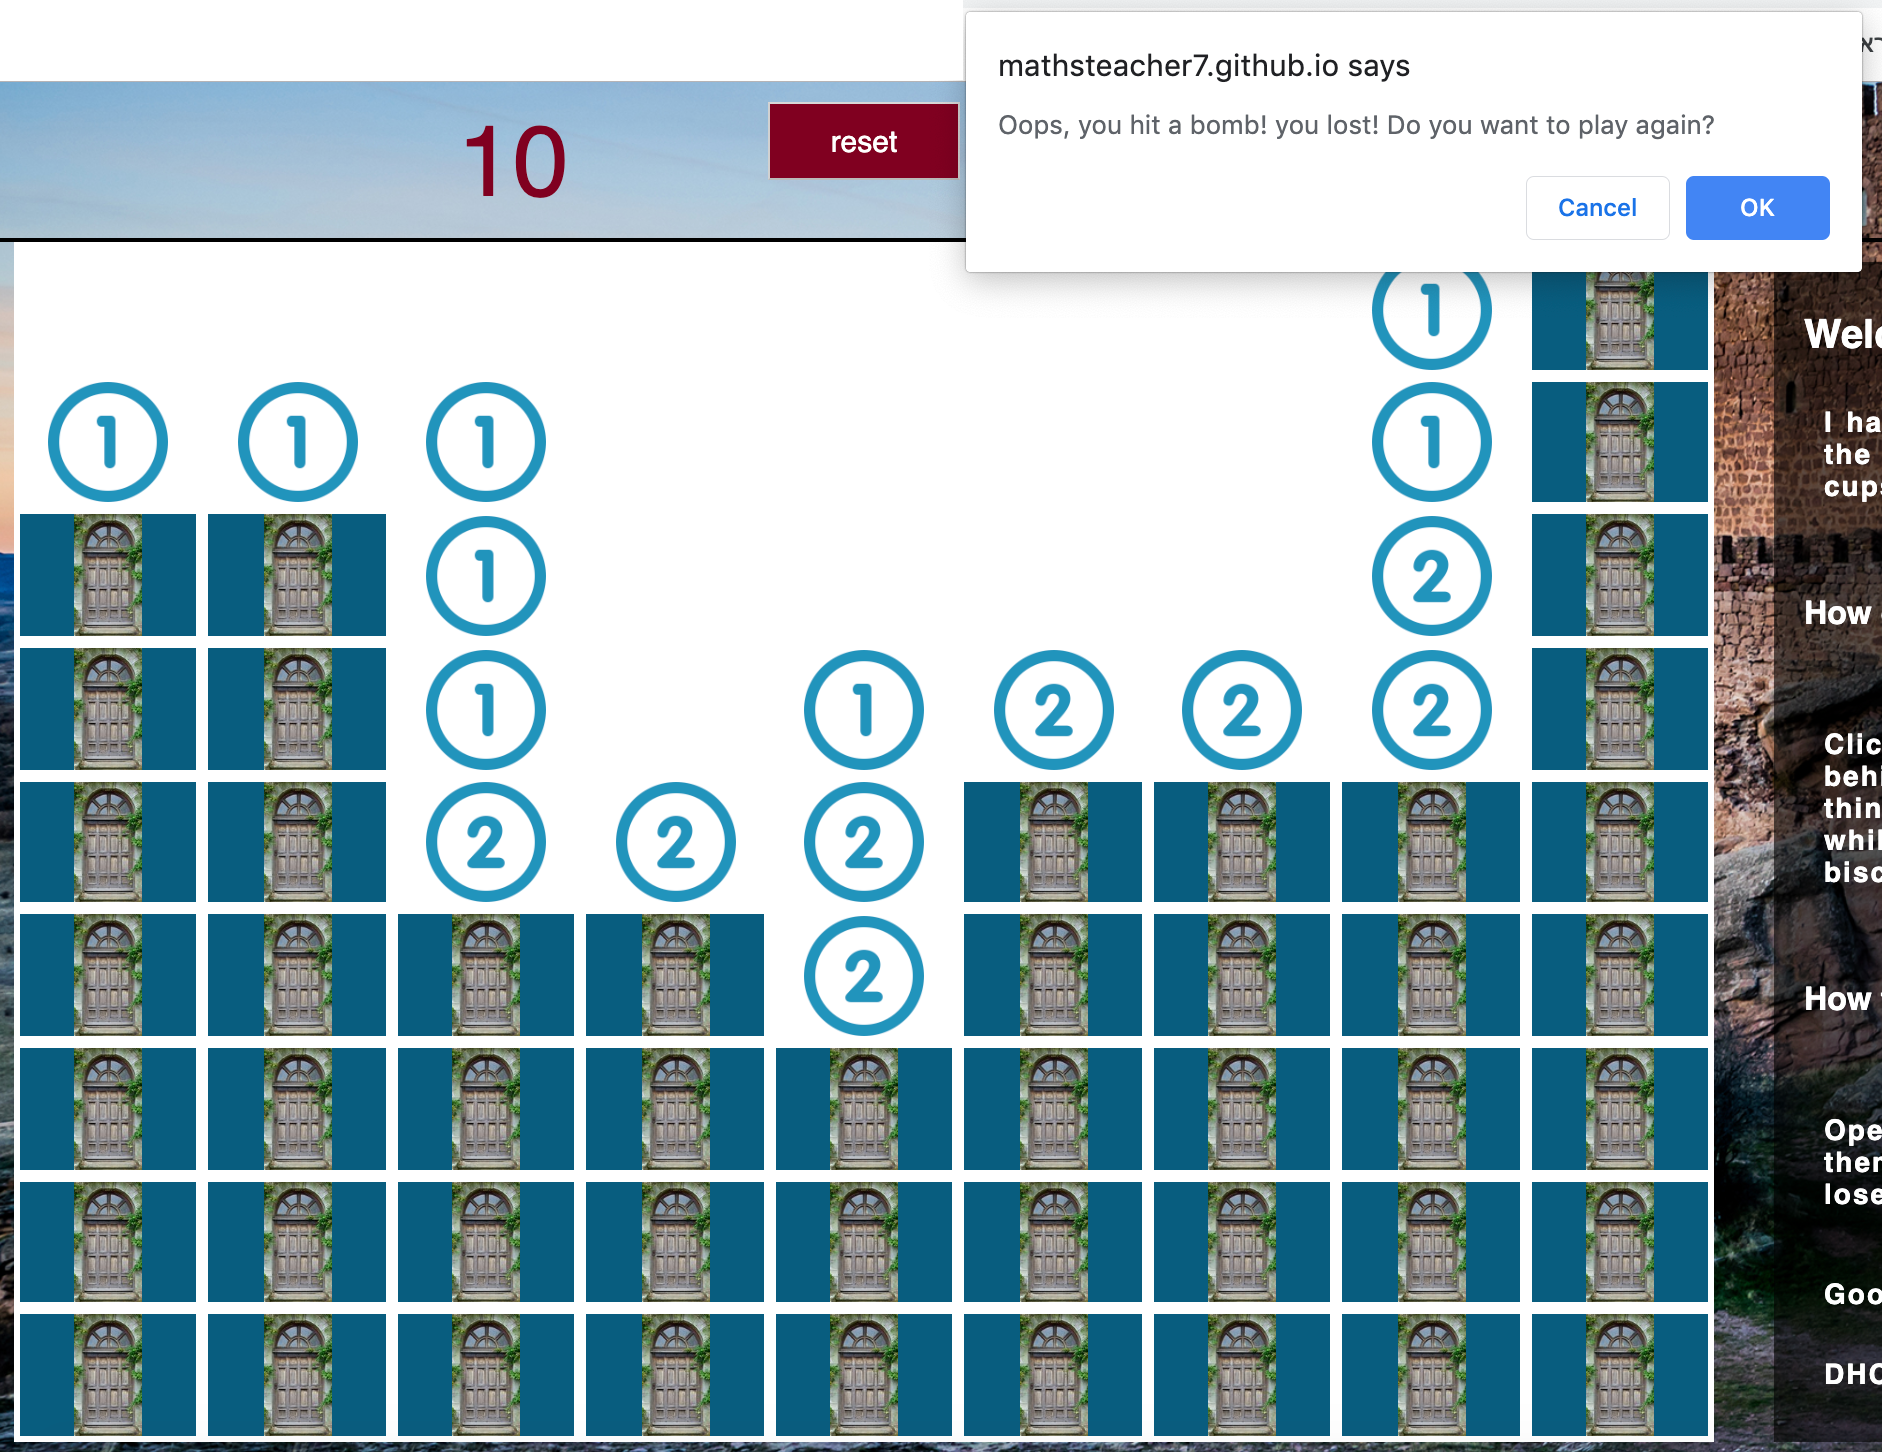
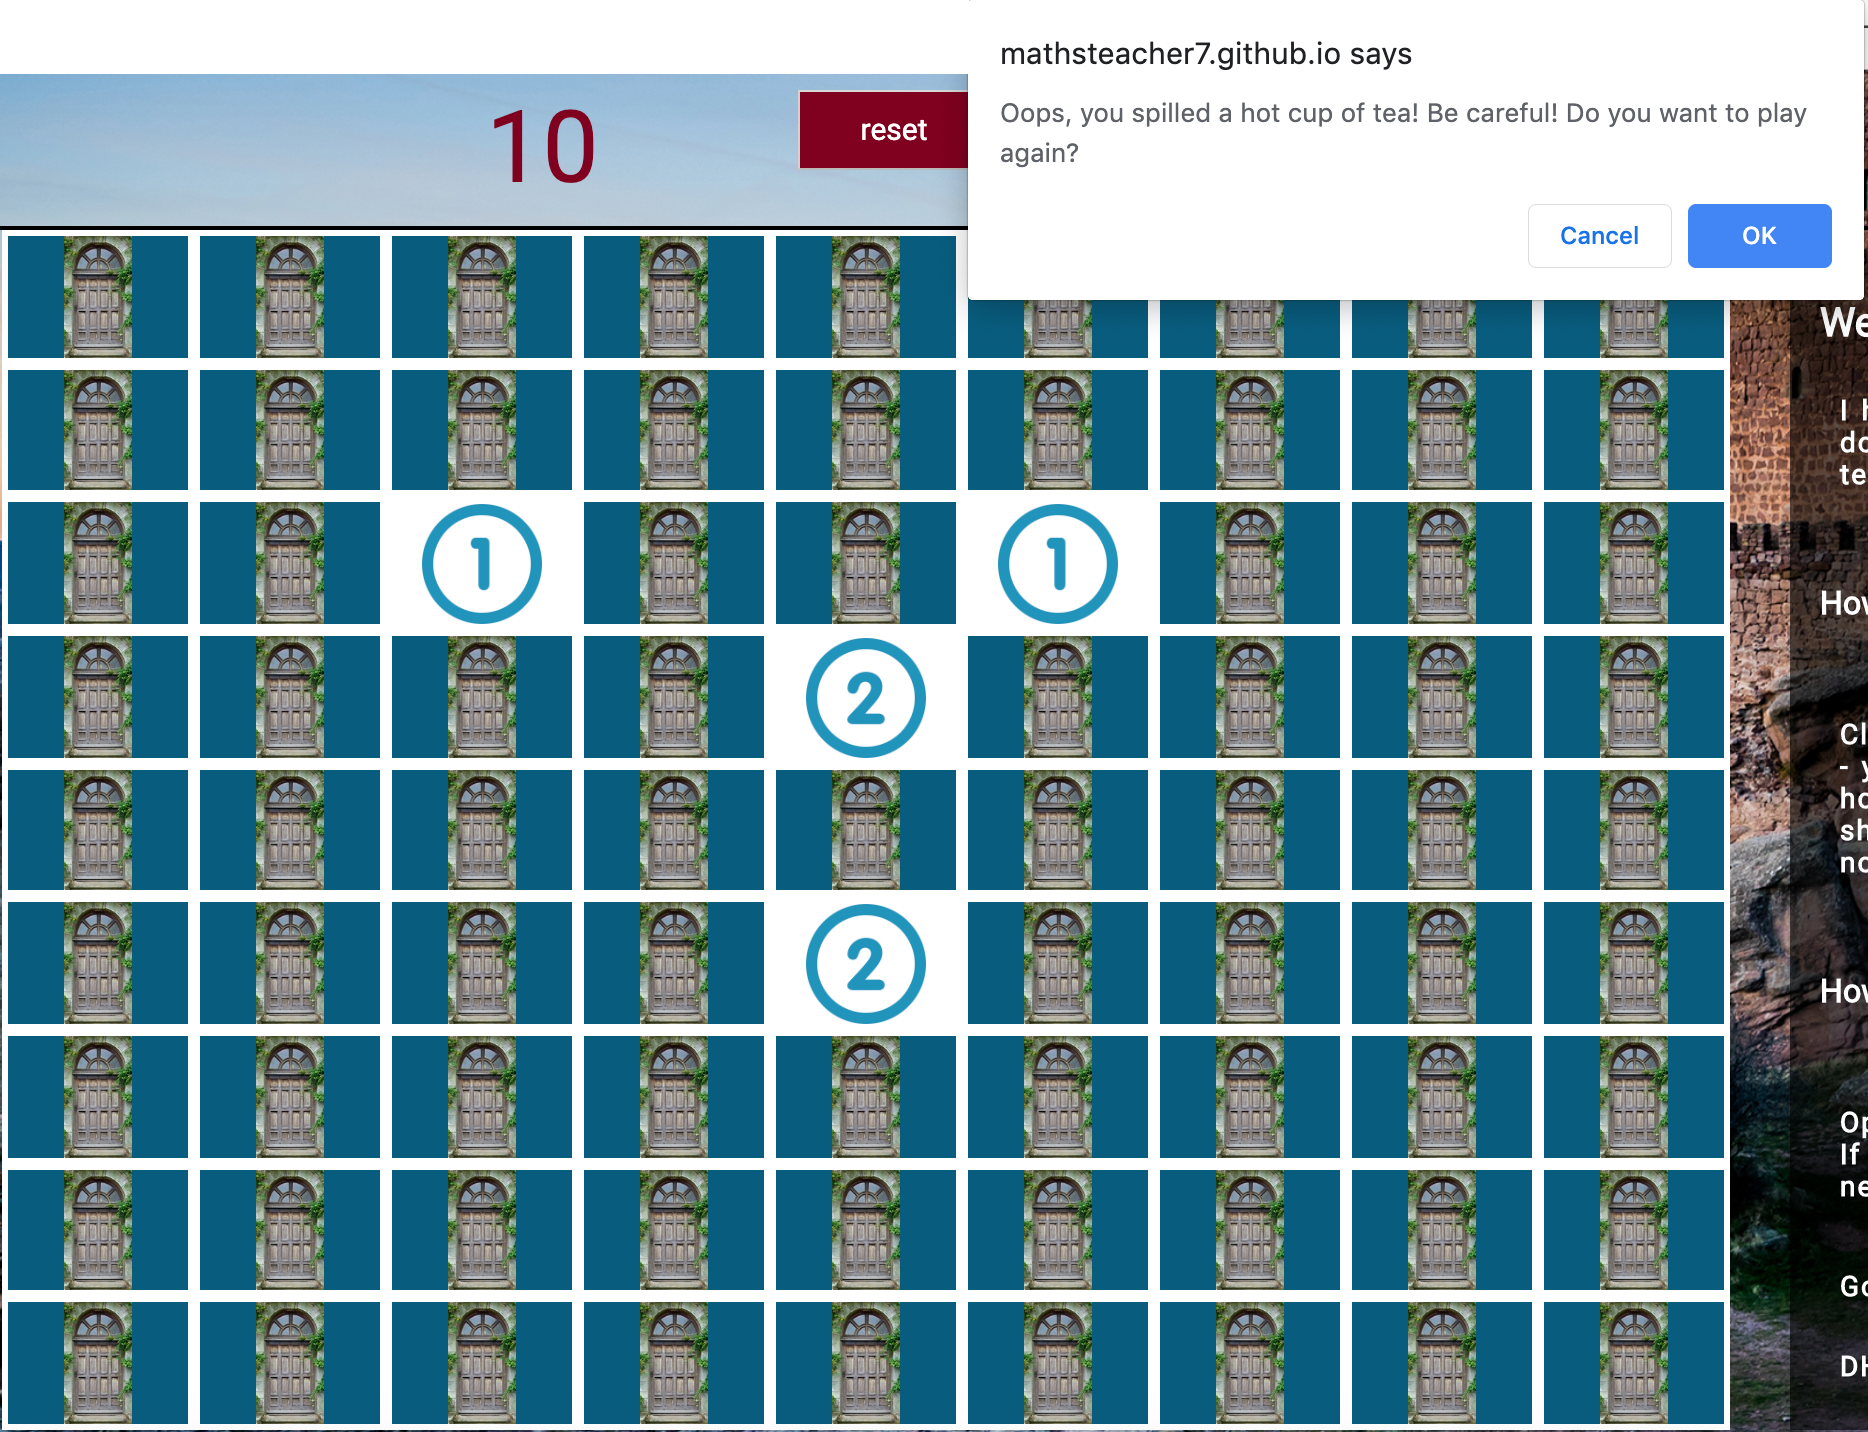
Readme after proofreading

diff --git a/readme.md b/readme.md
@@ -2,16 +2,16 @@
 
 ## Overview
 
-Castle Tea-Party is windows' minesweeper based game. Try to logically discover where the hot cups of tea are, and to avoid them, used some delicious biscuits.
+Castle Tea-Party is windows' minesweeper based game. Try to discover where the hot cups of tea are logically, and to avoid them, use some delicious biscuits.
 This is my first project as part of the Software Engineer Immersive course.
-I hope you will enjoy play the [game](https://mathsteacher7.github.io/Project1/).
+I hope you will enjoy playing the [game](https://mathsteacher7.github.io/Project1/).
 
-https://github.com/Mathsteacher7/Project1/issues/1#issue-470215977
+![The game starts](https://github.com/Mathsteacher7/Project1/issues/1#issue-470215977)
 
 
 ## Brief
-* Castle Tea-Party is a grid-based game in the browser
-* The game built with separate HTML/CSS/JavaScript files
+* Build a grid-based game in the browser
+* Use separate HTML/CSS/JavaScript files
 * Use DOM manipulation
 * Deploy your game online, using Github Pages, where the rest of the world can access it
 * Use semantic markup for HTML and CSS (adhere to best practices)
@@ -24,6 +24,7 @@ https://github.com/Mathsteacher7/Project1/issues/1#issue-470215977
 * HTML5
 * SCSS
 * CSS3
+* Flexbox
 * JavaScript (ES6)
 * Git
 * GitHub
@@ -31,11 +32,11 @@ https://github.com/Mathsteacher7/Project1/issues/1#issue-470215977
 
 ## Approach taken
 ### Creating the grid
-The game is static, which changes by the user clicks. For that I created  grids made of divs that were wrapping up with another div. While attaching in the beginning the same class to the divs, I was able to make a game board that was revealed step by step by the user. In every click the user removed the originally class (hidden) and discover what is under the grid.
+The game is static, which updates when the user clicks. For that, I created cells made of divs that were wrapping up with in another div. While attaching, in the beginning, the same class to the divs, I was able to make a game board that was revealed step by step by the user. With every click, the original class (hidden) was removed. This revealed what is under the cell.
 
 
-### Raomised the hot cups of tea and creating the numbers in each cell
-Every game the board is randomise again, with Math.random, making sure that ten different grids will be chosen.
+### Randomise the hot cups of tea and creation of the numbers in each cell
+With every new game the board is randomised again, with Math.random, making sure that ten different cells are chosen.
 
 ```js
 while(chosenNumbers.length < 10){
@@ -49,11 +50,11 @@ while(chosenNumbers.length < 10){
 ```
 
 
-The next step was to calculate how many hot cups of tea there around any grid. According to that a class with the relevant number of hot cups of tea is attached to the grid.
+The next step was to calculate how many hot cups of tea there are around any cell. According to that number, a relevant class is attached to the cell.
 
 
 ### Functionality
-The player has two option of clicks - he can just click a grid and reveal what is behind the door, or if he thinks there is a hot cup of tea behind it, he can click it while he hold the shift key pressed, and put a biscuit on it. When a biscuit has been putting on a grid, the player cannot reveal this grid:
+The player has two options when he clicks. The player can click on a cell and reveal what is behind the door, or if the player thinks there is a hot cup of tea behind it, the player can click it while holding the shift key down, and put a biscuit on it. When a biscuit has been put on the cell, the player cannot reveal what is behind the door:
 
 ```js
 function openCells(){
@@ -63,13 +64,13 @@ function openCells(){
 }
 ```
 
-### Opening an empty grid
-When a player open an empty grid he knows that all the grids around it are not attached with hot cup of tea. For that reason when the player click on an empty cell he does not just reveal that grid, but also all the grids around it. More about it in the challenges.
+### Opening an empty cell
+When a player opens an empty cell, all the doors around it are not hiding a hot cup of tea. For that reason, when the player clicks on an empty cell, the player does not just reveal that cell, but also all the cells around it. See below in the challenges.
 
 
 ## Challenges
-The whole board can be divided to nine parts - the grids in the corners, the grids in the rows and columns on the edge (not including the corners) and the rest of the grids. Every time I needed a grid to check the grids around it, I needed to take it into consideration. If I asked a grid to look on a grid that is not exist, it created a bug.
-For both times I used a switch statement to distinguish between the options, for example, when I wanted to open the cells around a white cell:
+The whole board can be divided into nine parts - the cells in the corners, the cells in the rows and columns on the edges (not including the corners) and the rest of the grid. I had difficulty when ever clicking on a cell impacted the cells around it, Especially if the cell was at the edge of the grid.
+I used a switch statement to distinguish between the options, for example, when I wanted to open the cells around a white cell:
 ```js
 switch (true) {
   case (numberOfIndex === 0):
@@ -108,9 +109,28 @@ switch (true) {
 
 ![The game with the instructions in the beginning](https://user-images.githubusercontent.com/51882532/61528610-2304d600-aa17-11e9-818d-269ef3090a6d.png)
 
-The game begins with automatic timer when the page is loaded
+The game begins with an automatic timer when the page is loaded.
 
 
-![The game after opening a bunch of empty grids](https://user-images.githubusercontent.com/51882532/61528689-56476500-aa17-11e9-9a31-f6629650d4c9.png)
+![The game after opening a bunch of empty cells](https://user-images.githubusercontent.com/51882532/61528689-56476500-aa17-11e9-9a31-f6629650d4c9.png)
 
-The game after opening a bunch of empty grids
+The game after opening a bunch of empty cells
+
+![You lost!](https://user-images.githubusercontent.com/51882532/61529594-a7585880-aa19-11e9-805a-92dd71af1b87.png)
+
+The game after spilling a hot cup of tea and losing
+
+![You won](https://user-images.githubusercontent.com/51882532/61529669-da9ae780-aa19-11e9-9c54-c2d376b1b015.png)
+
+The game after winning
+
+## Wins and Blockers
+
+The project started with great win of learning a lot of new advanced concepts in JavaScript. I needed to create not just a random list of 10 numbers, but to ensure that no number is repeated. I also needed to create different conditions for nine kinds of cells. Learning how to ensure those conditions were met was a great win.
+The main blocker was opening all the empty cells around an empty cell. The problem was the need to implement all the conditions also in the recursive function. For now, the player will need to open the other empty cells by clicking on them.
+Another win was dealing with CSS and flexbox methods, making sure every item of the grid and instruction is in place. In addition, working with the DOM allowed me to manipulate my HTML and CSS files without changing them.
+
+## Future features
+
+The main future features I would like to add is creating more levels of difficulty, and even a custom one, where the player can choose how many hot cups of tea will be hidden behind the doors.
+Another feature is opening all the adjacent empty cells in the first click on an empty cell.
